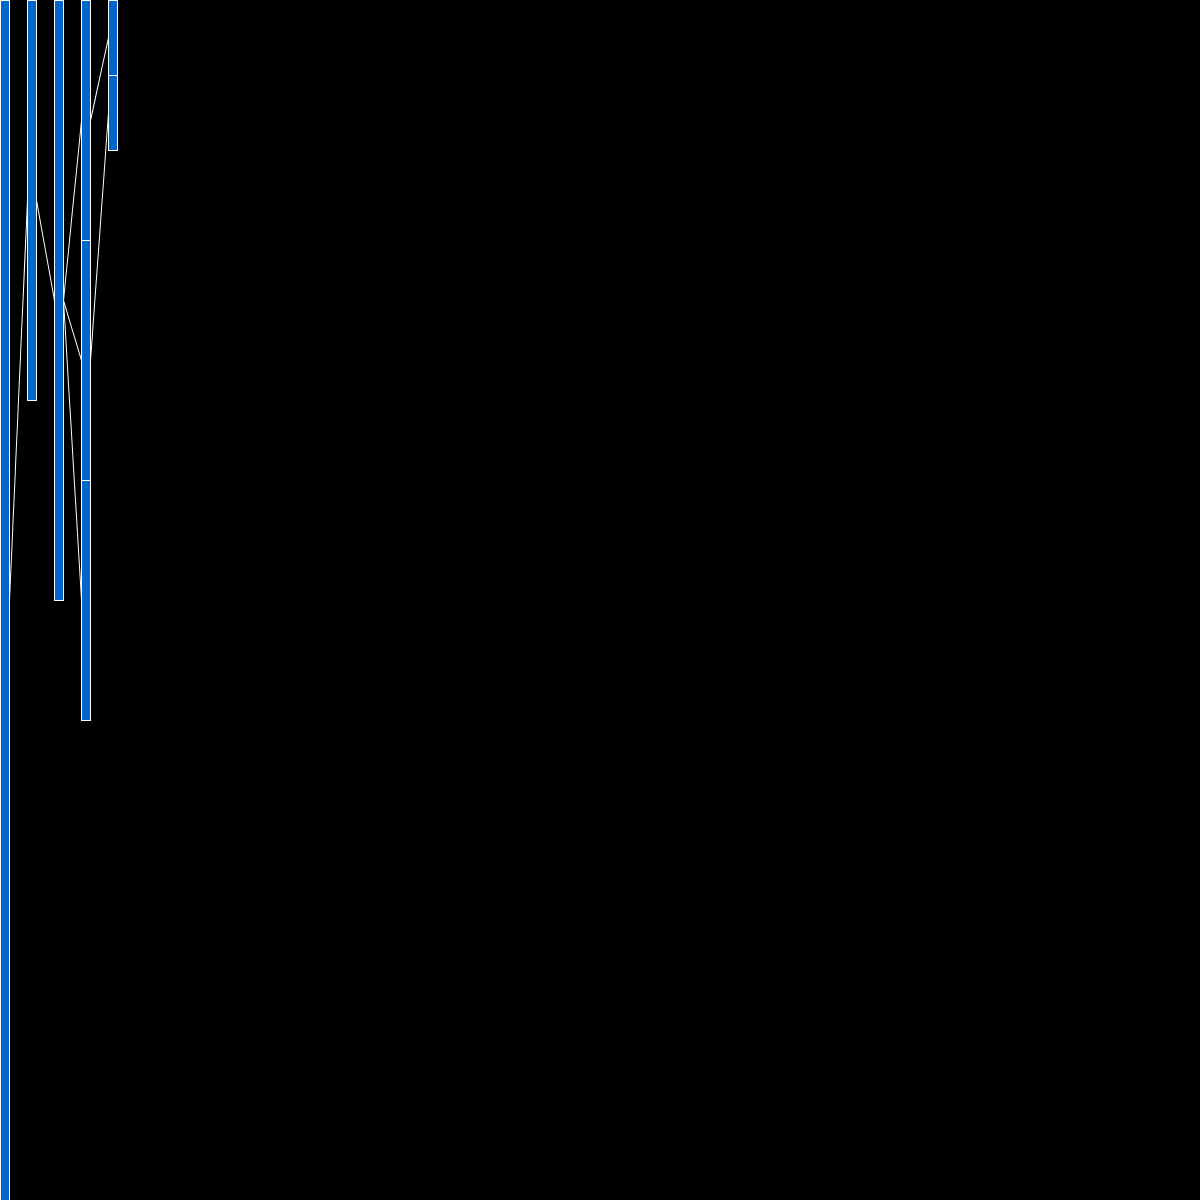
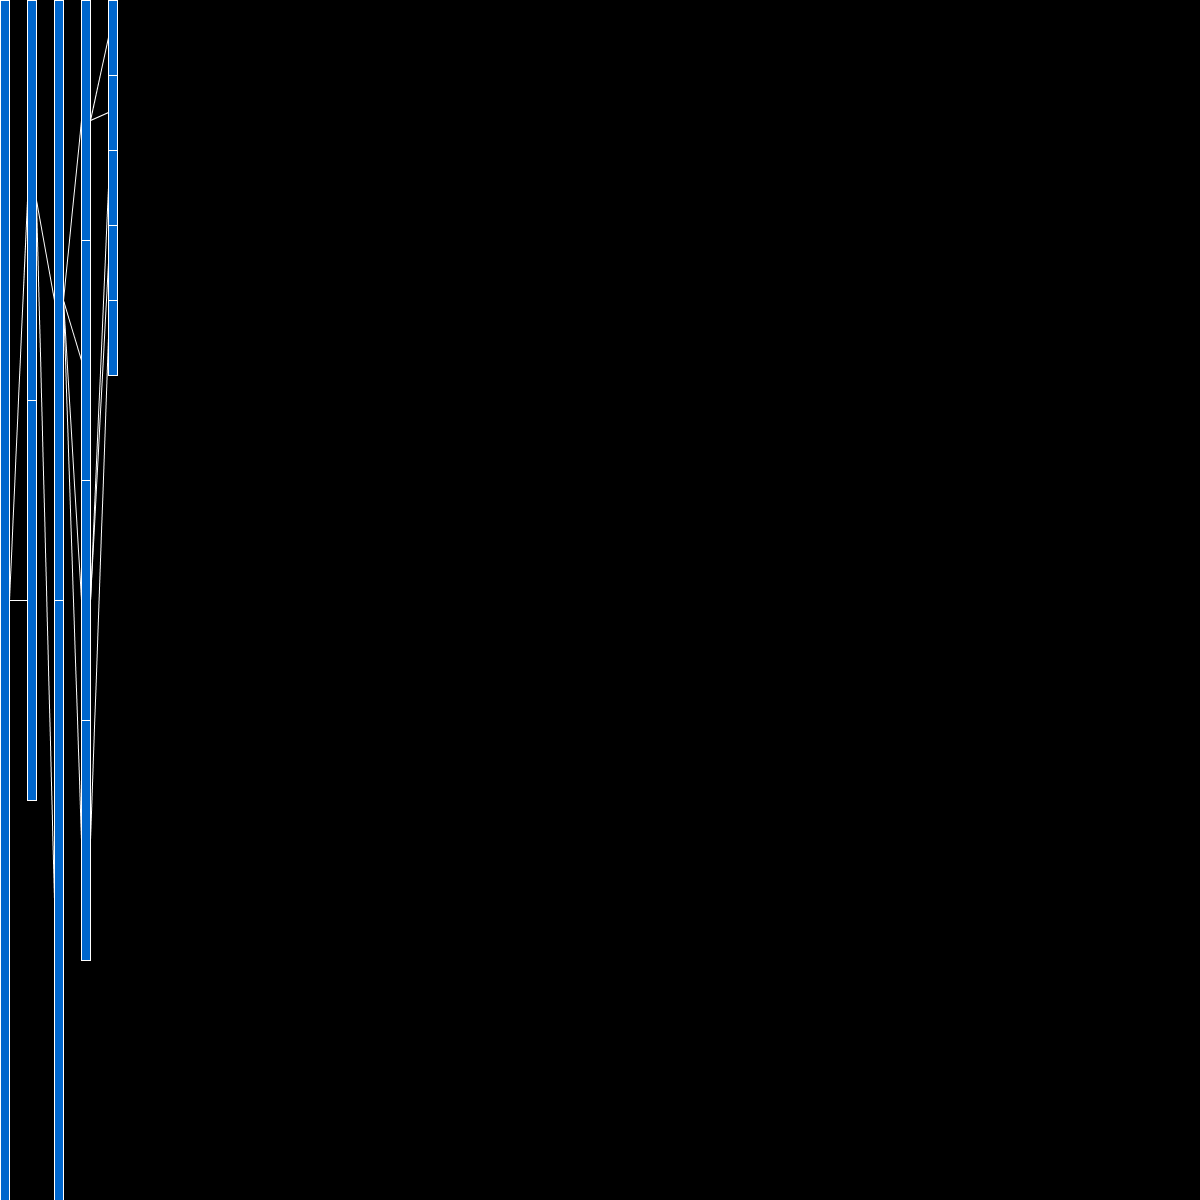
fixes

Changed region(s): [[0.0, 0.1233, 0.1233, 1.0]]

diff --git a/appExplorer/TreeDisplay/src/main/java/fr/inria/App.java b/appExplorer/TreeDisplay/src/main/java/fr/inria/App.java
@@ -24,8 +24,8 @@ public class App extends PApplet
     }
 
     public void setup() {
-        drawByteCode();
-        //drawCallTree();
+        //drawByteCode();
+        drawCallTree();
         //drawSysCall();
     }
 
@@ -89,8 +89,8 @@ public class App extends PApplet
         int[] pop = new int[t.depth];
 
         stroke(255);
-        drawNode(t, s/(3*t.depth), 0, width, pop, 3);
-        //save("calltree.png");
+        drawNode(t, s/(3*t.depth), 0, width, pop, 0);
+        save("calltree.png");
         System.out.println("coucou");
     }
 

diff --git a/appExplorer/TreeDisplay/src/main/java/fr/inria/TreeCallUtils.java b/appExplorer/TreeDisplay/src/main/java/fr/inria/TreeCallUtils.java
@@ -15,7 +15,7 @@ public class TreeCallUtils {
     }
 
     public static void trim (CallTree t, Set<String> appPackages, Set<String> libs) {
-        //if(t.name.compareTo("Self time") == 0) t.name = t.parent.name;
+        if(t.name.compareTo("Self time") == 0) t.name = t.parent.name;
         if(isIn(t.name, appPackages)) t.level = 0;
         else if (!isIn(t.name, libs)) t.level = 1;
         else  t.level = 2;
